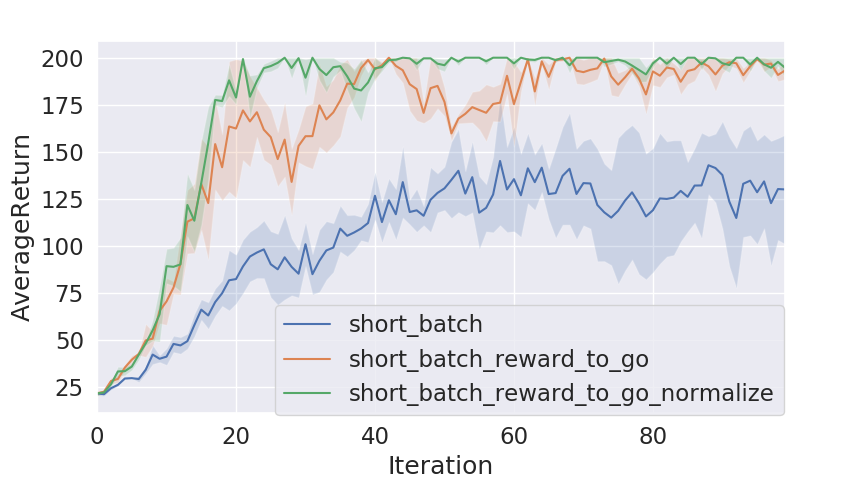
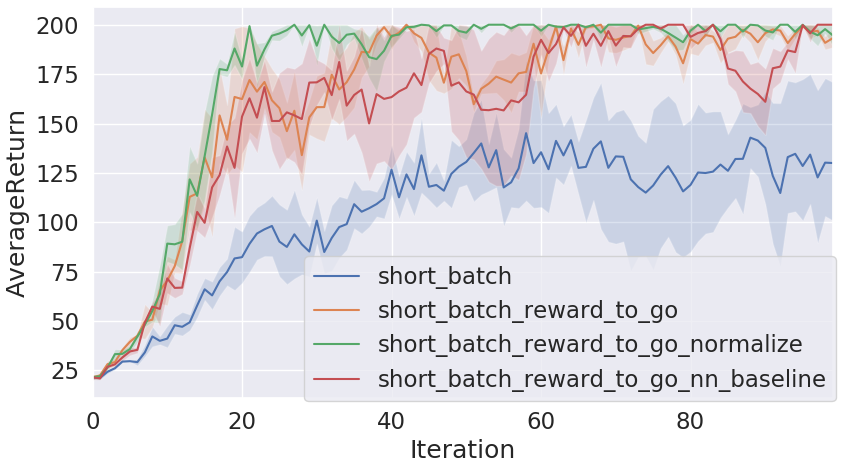
results for nn_baseline in cartpole

diff --git a/hw2/plot.py b/hw2/plot.py
@@ -29,18 +29,18 @@ random seeds. The runner code stored it in the directory structure
 To plot learning curves from the experiment, averaged over all random
 seeds, call
 
-    python plot.py data/test_EnvName_DateTime --value AverageReturn
+    python plot.py test_EnvName_DateTime --value AverageReturn
 
 and voila. To see a different statistics, change what you put in for
 the keyword --value. You can also enter /multiple/ values, and it will 
-make all of them in order.
+make all of them in order. The path is the part after `data/`.
 
 
 Suppose you ran two experiments: 'test1' and 'test2'. In 'test2' you tried
 a different set of hyperparameters from 'test1', and now you would like 
 to compare them -- see their learning curves side-by-side. Just call
 
-    python plot.py data/test1 data/test2
+    python plot.py test1 test2
 
 and it will plot them both! They will be given titles in the legend according
 to their exp_name parameters. If you want to use custom legend titles, use
@@ -104,10 +104,10 @@ def main():
     data = []
     if use_legend:
         for logdir, legend_title in zip(args.logdir, args.legend):
-            data += get_datasets(logdir, legend_title)
+            data += get_datasets("data/" + logdir, legend_title)
     else:
         for logdir in args.logdir:
-            data += get_datasets(logdir)
+            data += get_datasets("data/" + logdir)
 
     if isinstance(args.value, list):
         values = args.value

diff --git a/hw2/train_pg_f18.py b/hw2/train_pg_f18.py
@@ -137,7 +137,7 @@ class Agent(object):
         """
         scope = "nn_policy"
         if self.discrete:
-            self.sy_logits_na = build_mlp(
+            sy_logits_na = build_mlp(
                 sy_ob_no, self.ac_dim, scope, self.n_layers, self.size,
                 activation=tf.nn.relu, output_activation=None)
             return sy_logits_na

diff --git a/hw2/README.md b/hw2/README.md
@@ -30,7 +30,7 @@ We first tested on the Carpole task. The goal is to move the cart in such a way 
 
 ![learned](img/learned.gif)
 
-Adding reward-to-go and normalization progressively improves the performance of the model as reflected by the larger average reward. Notice also how the variance shrinks too.
+Adding reward-to-go and normalization progressively improves the performance of the model as reflected by the larger average reward. Notice also how the variance shrinks too. In this simple task, using the neural network to predict reward (nn_baseline) is actually worse than simply using the average of the reward as the baseline (normalize).
 
 ![compare_features](img/compare_features.png)
 
